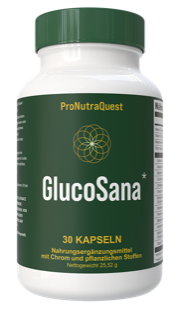
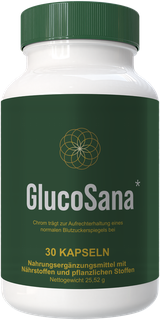
Replace bottle renders and og card with sign-free artwork
The label artwork still carried the ProNutraQuest wordmark in pixels — text
and filenames were clean, images were not.

- 7 bottle renders re-exported from the 'V2 German Sana Mockups WITHOUT
  ProNutraQuest' masters (KetoSana 60ml and VigorSana green matched to the
  live variants), trimmed to alpha bbox, height 320 RGBA
- og share card rebuilt: headline SanaSocials, clean SlimSana bottle,
  7 offers (was 9), 100M+ phrasing (retired flat 110M)
- og gets a new filename per the cache-bust rule, og.png overwritten in place
- retired the unused GlucoTrust/VitaSana bottle images

diff --git a/index.html b/index.html
@@ -4,7 +4,7 @@
 <meta property="og:description" content="100M+ German speakers, 40–60% cheaper CPMs, a fraction of the competition. 9 doctor-fronted offers, 60–75% RevShare, live link generator.">
 <meta property="og:type" content="website">
 <meta property="og:url" content="https://affiliate-hub.sana-socials.com/">
-<meta property="og:image" content="https://affiliate-hub.sana-socials.com/og-v41-burgundy.png">
+<meta property="og:image" content="https://affiliate-hub.sana-socials.com/og-sanasocials.png">
 <meta property="og:image:width" content="1200">
 <meta property="og:image:height" content="630">
 <meta name="twitter:card" content="summary_large_image">
